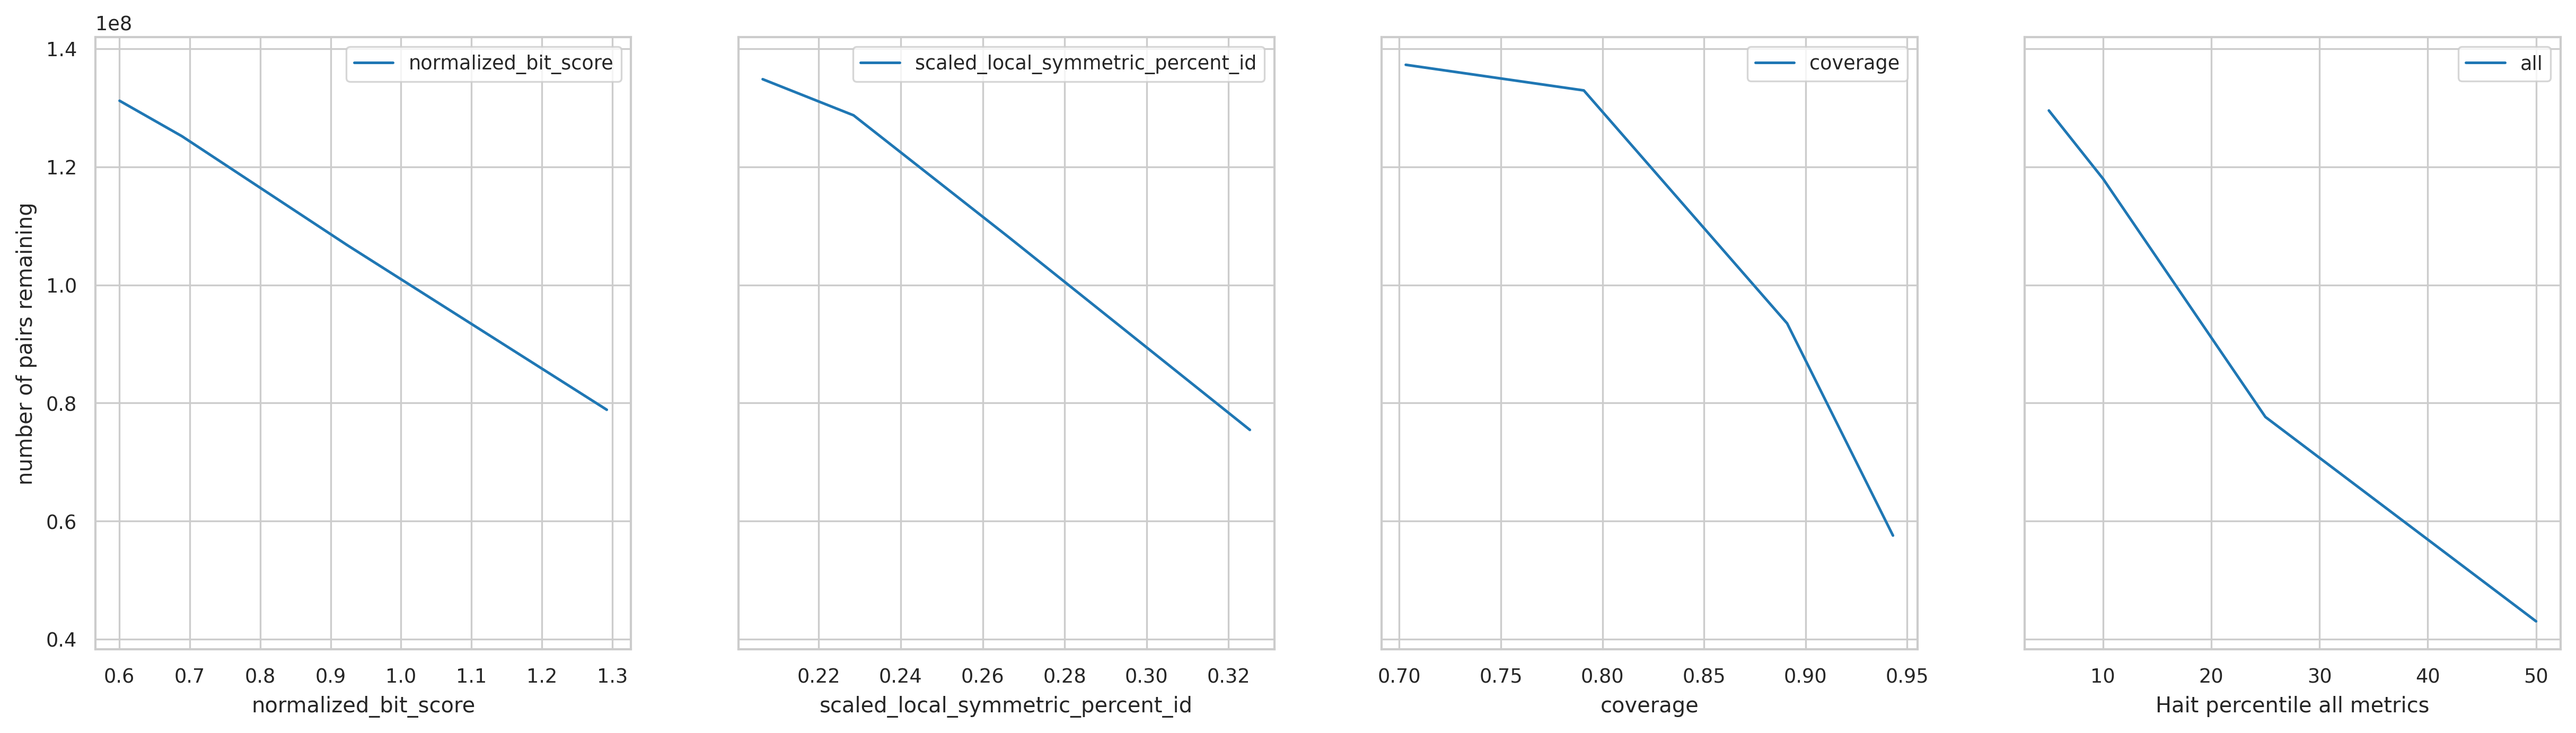
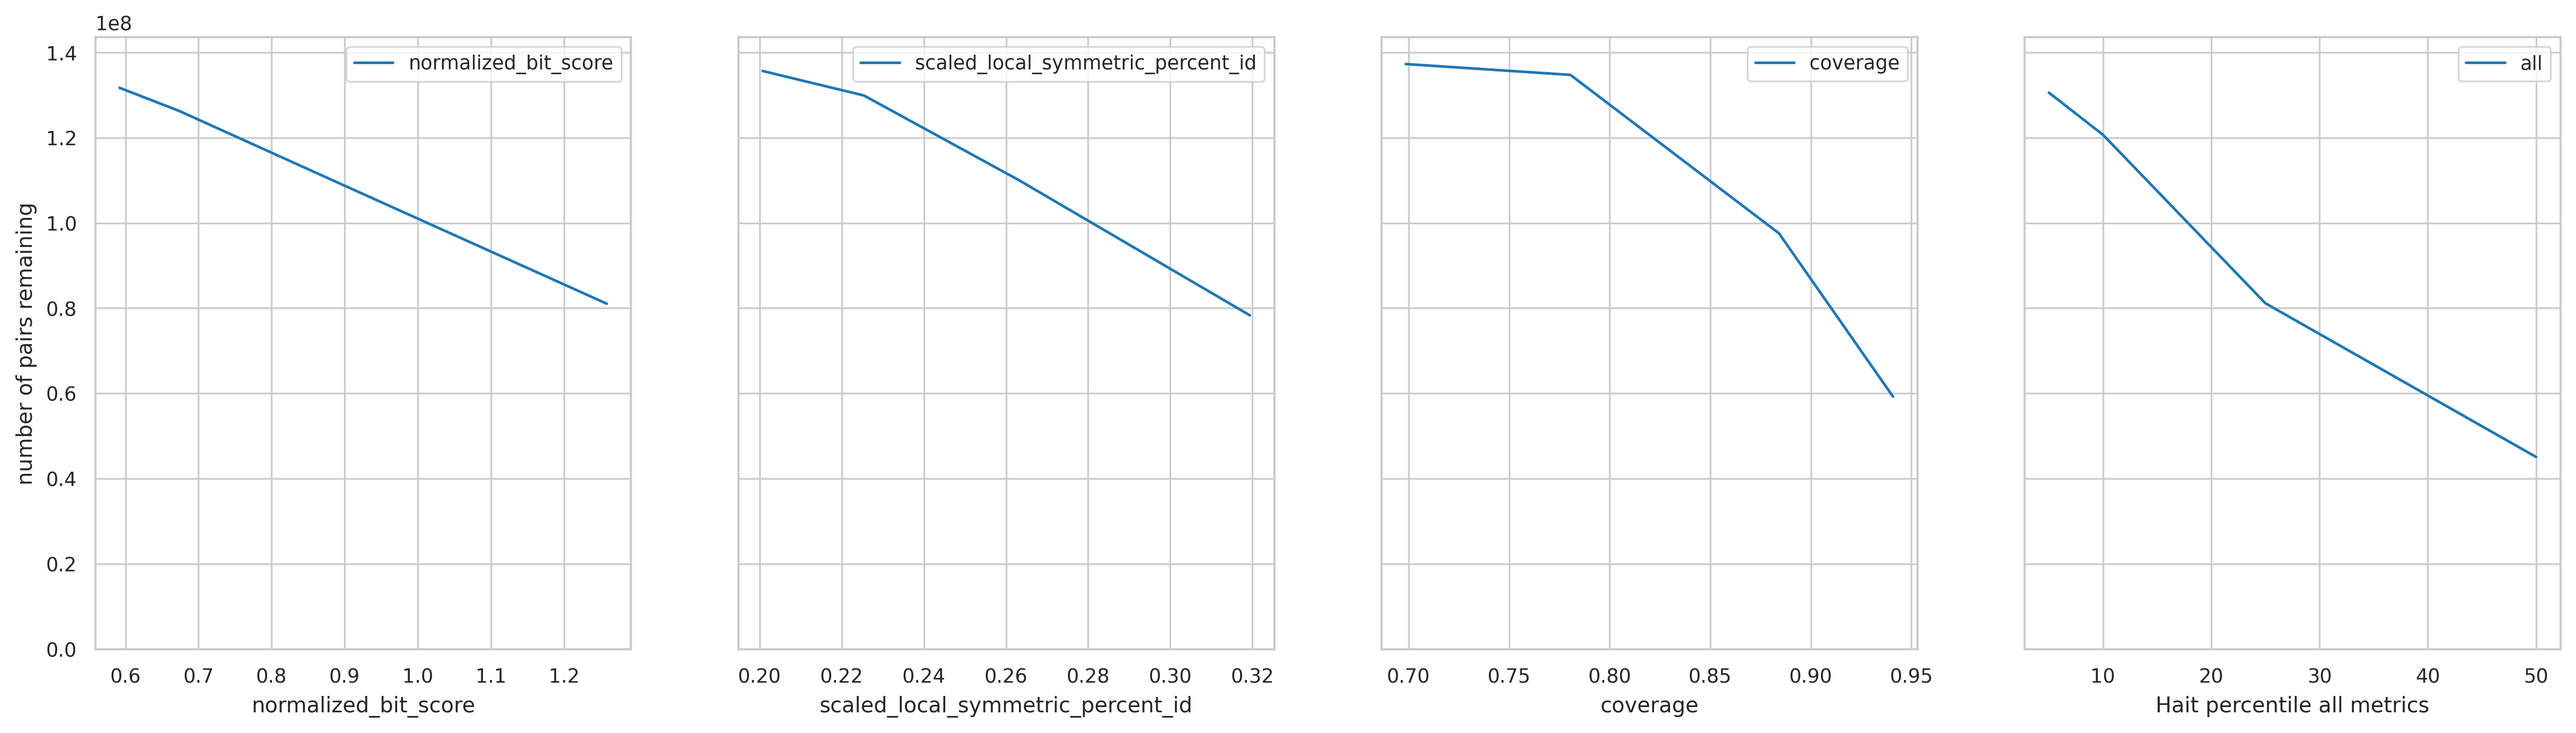
ran hait alingment and compared to our alignment with new hait pairs

diff --git a/pipeline/s2.4_compare_hait_alignment.py b/pipeline/s2.4_compare_hait_alignment.py
@@ -92,6 +92,7 @@ if __name__ == '__main__':
         else:
             x = list(hait_percentiles[metric].values())
         y = list(remaining_data_subdict.values())
+        ax.set_ylim(0, 1.1*max(y))
         logger.info(f"{x}, {y}")
         sns.lineplot(x=x, y=y, ax=ax, label=metric)
         if metric == 'all':
